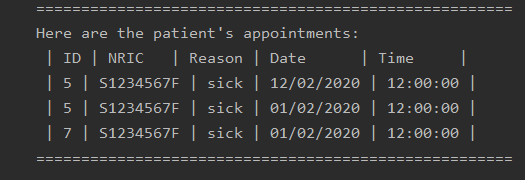
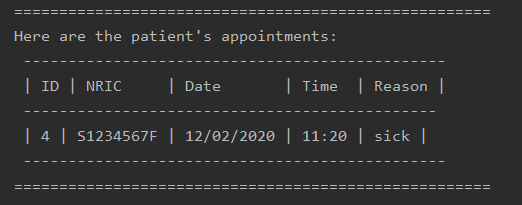
UG updated, format change for find appt

diff --git a/src/main/java/seedu/happypills/ui/AppointmentTextUi.java b/src/main/java/seedu/happypills/ui/AppointmentTextUi.java
@@ -12,8 +12,8 @@ public class AppointmentTextUi extends TextUi {
     public static final String GET_EMPTY_APPOINTMENT_LIST_MESSAGE = ""
             + "    There are no appointments in the list.\n" + DIVIDER;
     public static final String APPOINTMENT_NOT_FOUND_MESSAGE = ""
-            + "    The appointment cannot be found. Please try again.\n";
-
+            + "    The appointment cannot be found. Please try again.";
+    public static final String border = "-";
     /**
      * Shows list of appointments in the program.
      * @param appointments The list of appointments.
@@ -53,16 +53,21 @@ public class AppointmentTextUi extends TextUi {
      */
     public static String getAppointmentSuccessMessage(Patient patient) {
         String returnMessage = "    Here are the patient's appointments:\n"
-                + "     | ID | NRIC   | Reason | Date      | Time     |\n";
+                + "     " + border.repeat(47) + "\n"
+                + "     | ID | NRIC     | Date       | Time  | Reason |\n"
+                + "     " + border.repeat(46) + "\n";
         String content = "";
         ArrayList<Appointment> tempList = patient.getAppointments();
         for (Appointment appointment : tempList) {
+            String tempContent = "";
             String id = appointment.getAppointmentId();
             String nric = appointment.getNric();
             String reason = appointment.getReason();
             String date = appointment.getDate();
             String time = appointment.getTime();
-            content += "     | " + id + " | " + nric + " | " + reason + " | " + date + " | " + time + " | \n";
+            tempContent = "     | " + id + " | " + nric + " | " + date + " | " + time + " | " + reason + " | \n";
+            content += tempContent;
+            content += "     " + border.repeat(tempContent.length() - 5) + "\n";
         }
         if (content.isEmpty()) {
             returnMessage = "    There are no appointments in the list.\n";

diff --git a/src/test/java/seedu/happypills/logic/commands/appointmentcommands/FindAppointmentCommandTest.java b/src/test/java/seedu/happypills/logic/commands/appointmentcommands/FindAppointmentCommandTest.java
@@ -9,6 +9,7 @@ import seedu.happypills.model.data.Patient;
 import seedu.happypills.model.data.PatientMap;
 import seedu.happypills.model.data.PatientRecordMap;
 import seedu.happypills.model.exception.HappyPillsException;
+import seedu.happypills.ui.AppointmentTextUi;
 
 import static org.junit.jupiter.api.Assertions.assertEquals;
 
@@ -73,11 +74,7 @@ public class FindAppointmentCommandTest {
 
     @Test
     public void getAppointment_List_found() throws HappyPillsException {
-        String expectedOutputInList = "    Here are the patient's appointments:\n"
-                + "     | ID | NRIC   | Reason | Date      | Time     |\n"
-                + "     | 1 | S1234567A | reason1 | 01/02/2020 | 12:00:00 | \n"
-                + "     | 2 | S1234567A | reason2 | 01/03/2020 | 13:00:00 | \n"
-                + DIVIDER;
+        String expectedOutputInList = AppointmentTextUi.getAppointmentSuccessMessage(newPatientMap.get("S1234567A"));
         String message = new FindAppointmentCommand("S1234567A").execute(
                 newPatientMap, newAppointmentMap, newPatientRecordMap);
         assertEquals(expectedOutputInList, message);

diff --git a/src/main/java/seedu/happypills/logic/commands/appointmentcommands/EditAppointmentCommand.java b/src/main/java/seedu/happypills/logic/commands/appointmentcommands/EditAppointmentCommand.java
@@ -191,6 +191,9 @@ public class EditAppointmentCommand extends AppointmentCommand {
         if (!Checker.isValidNric(nric)) {
             return TextUi.appendDivider(TextUi.INVALID_NRIC_MESSAGE);
         }
+        if (!Checker.isPositiveInteger(apptID)) {
+            return TextUi.appendDivider(TextUi.INVALID_APPTID_MESSAGE);
+        }
         if (newContent.length() < 3) {
             return HelpTextUi.EDIT_APPOINTMENT_HELP_MESSAGE;
         }

diff --git a/src/main/java/seedu/happypills/ui/TextUi.java b/src/main/java/seedu/happypills/ui/TextUi.java
@@ -76,4 +76,8 @@ public class TextUi {
     public static final String INVALID_NRIC_MESSAGE = ""
             + "    The NRIC provided is invalid, please try again with a valid NRIC.\n";
 
+    public static final String INVALID_APPTID_MESSAGE = ""
+            + "    The appointment ID provided is invalid, please try again with a valid appointment ID.\n";
+
+
 }
